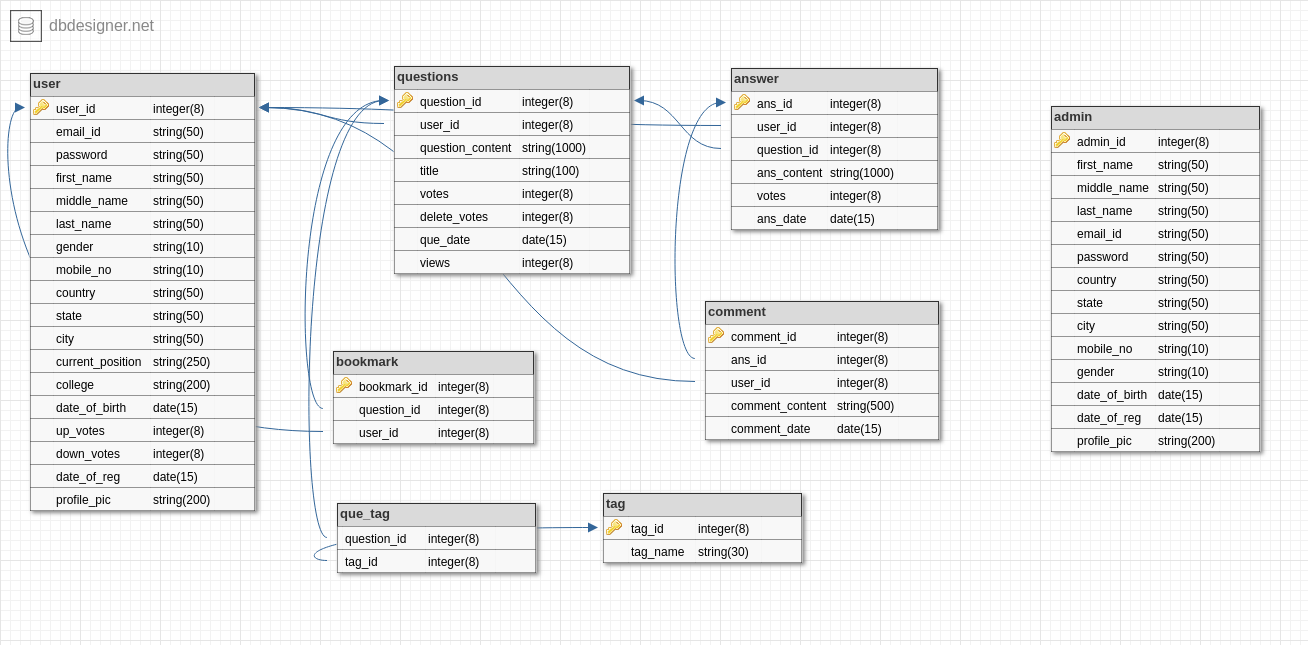
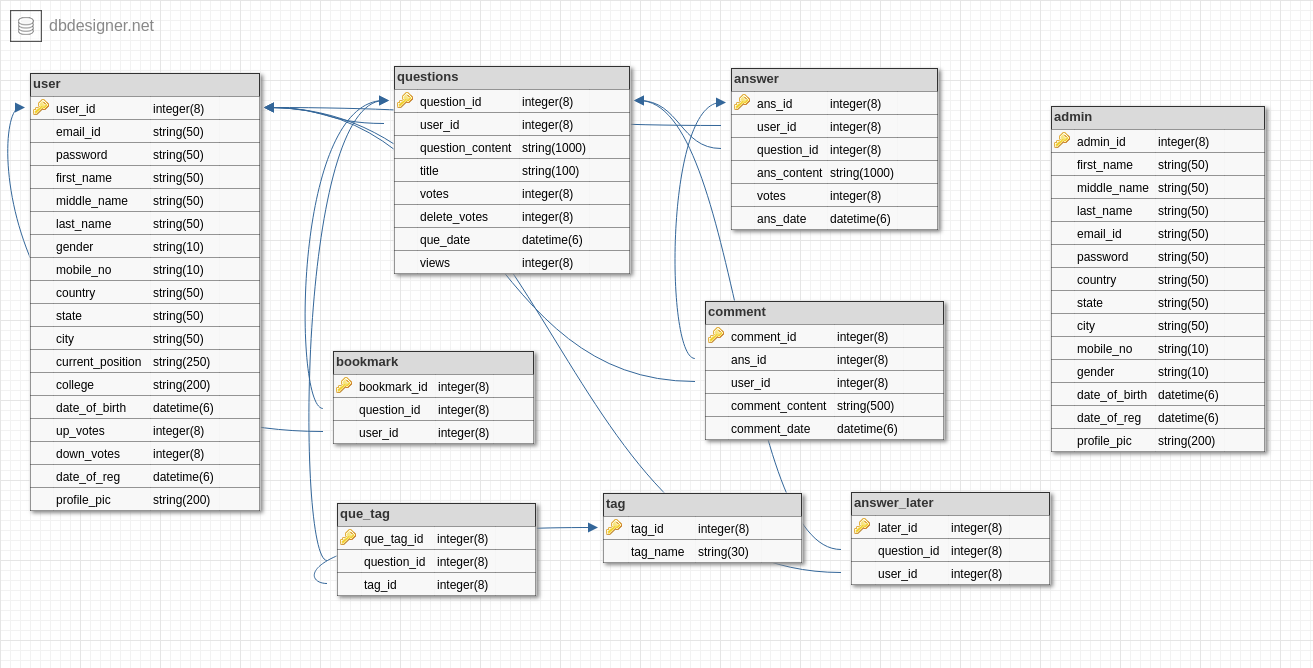
DataBase Model completed & user_signup complete

diff --git a/model.py b/model.py
@@ -10,16 +10,16 @@ db = SQLAlchemy(app)
 class tag(db.Model):
 	__tablename__ = 'tag'
 	tag_id = db.Column('tag_id',db.Integer,primary_key=True)
-	tag_name = db.Column('tag_name',db.String)
+	tag_name = db.Column('tag_name',db.String(30),nullable=False)
 
 class user(db.Model):
 	__tablename__ = 'user'
 	user_id = db.Column('user_id',db.Integer,primary_key=True)
-	email_id = db.Column('email_id',db.String)
-	password = db.Column('password',db.String)
-	first_name = db.Column('first_name',db.String)
+	email_id = db.Column('email_id',db.String,nullable=False,unique=True)
+	password = db.Column('password',db.String,nullable=False)
+	first_name = db.Column('first_name',db.String,nullable=False)
 	middle_name = db.Column('middle_name',db.String)
-	last_name = db.Column('last_name',db.String)
+	last_name = db.Column('last_name',db.String,nullable=False)
 	gender = db.Column('gender',db.String)
 	mobile_no = db.Column('mobile_no',db.String)
 	country = db.Column('country',db.String)
@@ -30,31 +30,32 @@ class user(db.Model):
 	date_of_birth = db.Column('date_of_birth',db.DateTime)
 	up_votes = db.Column('up_votes',db.Integer)
 	down_votes = db.Column('down_votes',db.Integer)
-	date_of_reg = db.Column('date_of_reg',db.DateTime)
+	date_of_reg = db.Column('date_of_reg',db.DateTime,nullable=False)
 	profile_pic = db.Column('profile_pic',db.String)
 
 class que_tag(db.Model):
 	__tablename__ = 'que_tag'
-	tag_id = db.Column('tag_id',db.Integer,primary_key=True)
+	que_tag_id = db.Column('que_tag_id',db.Integer,primary_key=True)
+	tag_id = db.Column(db.ForeignKey('tag.tag_id'))
 	question_id = db.Column(db.ForeignKey('questions.question_id'))
 
 class questions(db.Model):
 	__tablename__ = 'questions'
 	question_id = db.Column('question_id',db.Integer,primary_key=True)
 	user_id = db.Column(db.ForeignKey('user.user_id'))
-	question_content = db.Column('question_content',db.String)
-	title = db.Column('title',db.String)
+	question_content = db.Column('question_content',db.String,nullable=False)
+	title = db.Column('title',db.String,nullable=False)
 	votes = db.Column('votes',db.Integer)
 	delete_votes = db.Column('delete_votes',db.Integer)
-	que_date = db.Column('que_date',db.DateTime)
+	que_date = db.Column('que_date',db.DateTime,nullable=False)
 	views = db.Column('views',db.Integer)
 
 class answer(db.Model):
 	__tablename__ = 'answer'
 	ans_id = db.Column('ans_id',db.Integer,primary_key=True)
-	ans_content = db.Column('ans_content',db.String)
+	ans_content = db.Column('ans_content',db.String,nullable=False)
 	votes = db.Column('votes',db.Integer)
-	ans_date = db.Column('ans_date',db.DateTime)
+	ans_date = db.Column('ans_date',db.DateTime,nullable=False)
 	user_id = db.Column(db.ForeignKey('user.user_id'))
 	question_id = db.Column(db.ForeignKey('questions.question_id'))
 
@@ -64,16 +65,51 @@ class bookmark(db.Model):
 	user_id = db.Column(db.ForeignKey('user.user_id'))
 	question_id = db.Column(db.ForeignKey('questions.question_id'))
 
+class answer_later(db.Model):
+	__tablename__ = 'answer_later'
+	later_id = db.Column('later_id',db.Integer,primary_key=True)
+	user_id = db.Column(db.ForeignKey('user.user_id'))
+	question_id = db.Column(db.ForeignKey('questions.question_id'))
+
 class comment(db.Model):
 	__tablename__ = 'comment'
 	comment_id = db.Column('comment_id',db.Integer,primary_key=True)
 	user_id = db.Column(db.ForeignKey('user.user_id'))
 	ans_id = db.Column(db.ForeignKey('answer.ans_id'))
-	comment_content = db.Column('comment_content',db.String)
-	comment_date = db.Column('comment_date',db.DateTime)
+	comment_content = db.Column('comment_content',db.String,nullable=False)
+	comment_date = db.Column('comment_date',db.DateTime,nullable=False)
 
-# class admin(db.Model):
-# 	__tablename__ = 'bookmark'
-# 	bookmark_id = db.Column('bookmark_id',db.Integer,primary_key=True)
-# 	user_id = db.Column(ForeignKey('user.user_id'),db.Integer)
-# 	question_id = db.Column(ForeignKey('questions.question_id'),db.Integer)
+class admin(db.Model):
+	__tablename__ = 'admin'
+	admin_id = db.Column('admin_id',db.Integer,primary_key=True)
+	first_name = db.Column('first_name',db.String,nullable=False)
+	middle_name = db.Column('middle_name',db.String)
+	last_name = db.Column('last_name',db.String,nullable=False)
+	email_id = db.Column('email_id',db.String,nullable=False,unique=True)
+	password = db.Column('password',db.String,nullable=False)
+	country = db.Column('country',db.String)
+	state = db.Column('state',db.String)
+	city = db.Column('city',db.String)
+	mobile_no = db.Column('mobile_no',db.String)
+	gender = db.Column('gender',db.String)
+	date_of_birth = db.Column('date_of_birth',db.DateTime)
+	date_of_reg = db.Column('date_of_reg',db.DateTime,nullable=False)
+	profile_pic = db.Column('profile_pic',db.String)
+
+
+
+# tg = tag.query.all() # Retrieve all data
+# 	ll = [{'id':1,'name':"sad"}]
+# 	del ll[:]
+# 	for i in tg:
+# 		ll.append({'id':i.tag_id,'name':i.tag_name})
+	
+# 	For select particular record
+# 	tg = tag.query.filter_by(tag_id=1).first()
+# 	For insertion
+# 	tg = tag(tag_name="DEF")
+# 	db.session.add(tg)
+# 	db.session.commit()
+# 	For deletion
+# 	db.session.delete(tg)
+# 	db.session.commit()

diff --git a/home.py b/home.py
@@ -7,9 +7,50 @@ from model import *
 def index():
 	return render_template('index.html')
 
+@app.route("/user_sign_in")
+def user_signin():
+	email = request.form['email']
+	password = request.form['password']
+	usr = user.query.filter_by(email_id=email,password=password).first()
+	if user is NULL:
+		pass
+	else:
+		return render_template('index.html')
+
 @app.route("/user_sign_up")
-def signup():
+def user_signup():
 	return render_template('user_sign_up.html')
+
+@app.route("/user_sign_up_1",methods=['POST'])
+def user_signup_1():
+	email = request.form['email']
+	password = request.form['password']
+	first = request.form['fname']
+	middle = request.form['mname']
+	last = request.form['lname']
+	gender = request.form['gn']
+	mobile = request.form['mobile']
+	country = request.form['country']
+	current_pos = request.form['cur_pos']
+	college = request.form['collegename']
+	dob = request.form['date']
+	dd=datetime.utcnow()
+
+	for f in request.files.getlist("file"):
+		if f.filename=='':
+			destination='Default.jpg'
+		else:
+			target=os.path.join('/home/vatsal/Documents/IIIT/SCE_Assignments/SCE_Project/static','Img/')
+			filename=f.filename
+			ext=filename.split(".")
+			destination = "/".join([target,filename])
+			f.save(destination)
+			destination=filename
+
+	usr = user(first_name=first,middle_name=middle,last_name=last,email_id=email,password=password,gender=gender,mobile_no=mobile,country=country,current_position=current_pos,college=college,date_of_birth=dob,date_of_reg=dd,profile_pic=destination)
+	db.session.add(usr)
+	db.session.commit()
+	return redirect(url_for('.user_signup'))
 
 @app.route("/bookmark")
 def bookmark():
